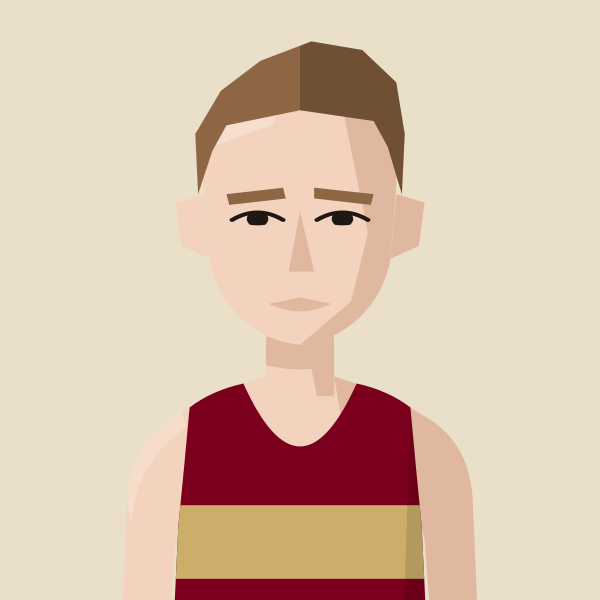
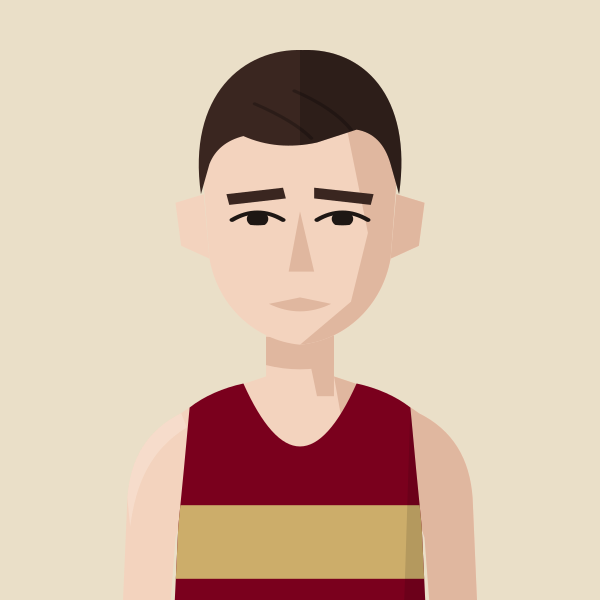
Portraits: Larry Ryan's dark fringe
Claude-Session: https://claude.ai/code/session_01MgmDWhFqnSSnP4iBLKXUZC

Changed region(s): [[0.3, 0.06, 0.69, 0.33], [0.51, 0.3, 0.63, 0.36], [0.36, 0.3, 0.48, 0.36]]

diff --git a/tools/gen_portraits.py b/tools/gen_portraits.py
@@ -79,6 +79,7 @@ HAIR = {  # in head coordinates
     "curlspeak": '<path d="M62,114 L59.6,83.0 Q46.8,78.5 57.0,70.0 Q46.8,61.5 59.6,57.0 Q53.2,45.5 67.1,45.6 Q65.3,32.5 78.5,37.1 Q81.5,24.0 92.5,32.6 Q100.0,21.0 107.5,32.6 Q118.5,24.0 121.5,37.1 Q134.7,32.5 132.9,45.6 Q146.8,45.5 140.4,57.0 Q153.2,61.5 143.0,70.0 Q153.2,78.5 140.4,83.0 L138,114 L134,98 Q132,78 123,66 Q114,60 107,65 L100,74 L93,65 Q86,60 77,66 Q68,78 66,98 Z"/>',
     "horseshoe": '<path d="M64,102 C62,84 63,74 69,66 L74,70 Q70,84 70,102 Z"/><path d="M136,102 C138,84 137,74 131,66 L126,70 Q130,84 130,102 Z"/>',
     "sweptback": '<path d="M58,118 Q50,92 56,70 C60,46 78,30 98,32 Q108,26 118,32 C136,38 148,60 144,92 Q146,108 142,118 Q137,122 134,116 L133,96 C131,80 126,66 114,60 Q104,56 96,58 Q82,62 74,74 Q69,84 68,98 L67,116 Q62,122 58,118 Z"/><g fill="none" stroke="#000" stroke-opacity=".28" stroke-width="1.6" stroke-linecap="round"><path d="M78,66 Q94,46 122,44"/><path d="M90,58 Q108,42 132,52"/><path d="M118,60 Q132,62 138,80"/></g>',
+    "fringe": '<path d="M65,100 C60,54 80,32 101,33 C122,32 140,54 135,100 L132,86 Q129,72 120,70 L106,76 Q92,80 80,73 Q71,76 68,86 Z"/><g fill="none" stroke="#000" stroke-opacity=".25" stroke-width="1.4" stroke-linecap="round"><path d="M84,58 Q98,66 104,74"/><path d="M98,52 Q112,60 118,70"/></g>',
     "curtains": '<path d="M60,108 C54,62 76,32 100,32 C124,32 146,62 140,108 L136,104 C135,94 132,86 126,80 C116,72 107,70 102,58 L98,58 C93,70 84,72 74,80 C68,86 65,94 64,104 Z"/>',
     "croppeak": '<path d="M65,100 C62,60 82,40 100,40 C118,40 138,60 135,100 L132,84 Q130,68 122,62 Q114,58 108,64 L100,72 L92,64 Q86,58 78,62 Q70,68 68,84 Z"/>',
     "croprecede": '<path d="M65,100 C62,60 82,40 100,40 C118,40 138,60 135,100 L132,84 Q131,64 125,56 Q118,48 111,54 Q105,61 100,61 Q95,61 89,54 Q82,48 75,56 Q69,64 68,84 Z"/>',
@@ -330,7 +331,7 @@ save("speed", figure("KEN", skin=1, hair="tousled", hair_colour="light brown"))
 save("lethbridge", figure("THH", skin=1, hair="tousled", hair_colour="grey", glasses=True))
 save("fox", figure("THH", skin=1, hair="quiff", hair_colour="dark brown"))
 save("woods", figure("HOL", skin=1, hair="tousled", hair_colour="light brown"))
-save("ryan", figure("BEL", skin=1, hair="quiff", hair_colour="light brown"))
+save("ryan", figure("BEL", skin=1, hair="fringe", hair_colour="dark brown"))
 save("mccolgan", figure("THH", skin=1, hair="shortcurls", hair_colour="light brown"))
 save("collier", figure("KEN", skin=1, hair="crop", hair_colour="#B07A4A", facial="stubble", facial_colour="#B5652E"))
 save("green", figure("HOL", skin=1, hair="crop", hair_colour="dark brown", facial="stubble"))
